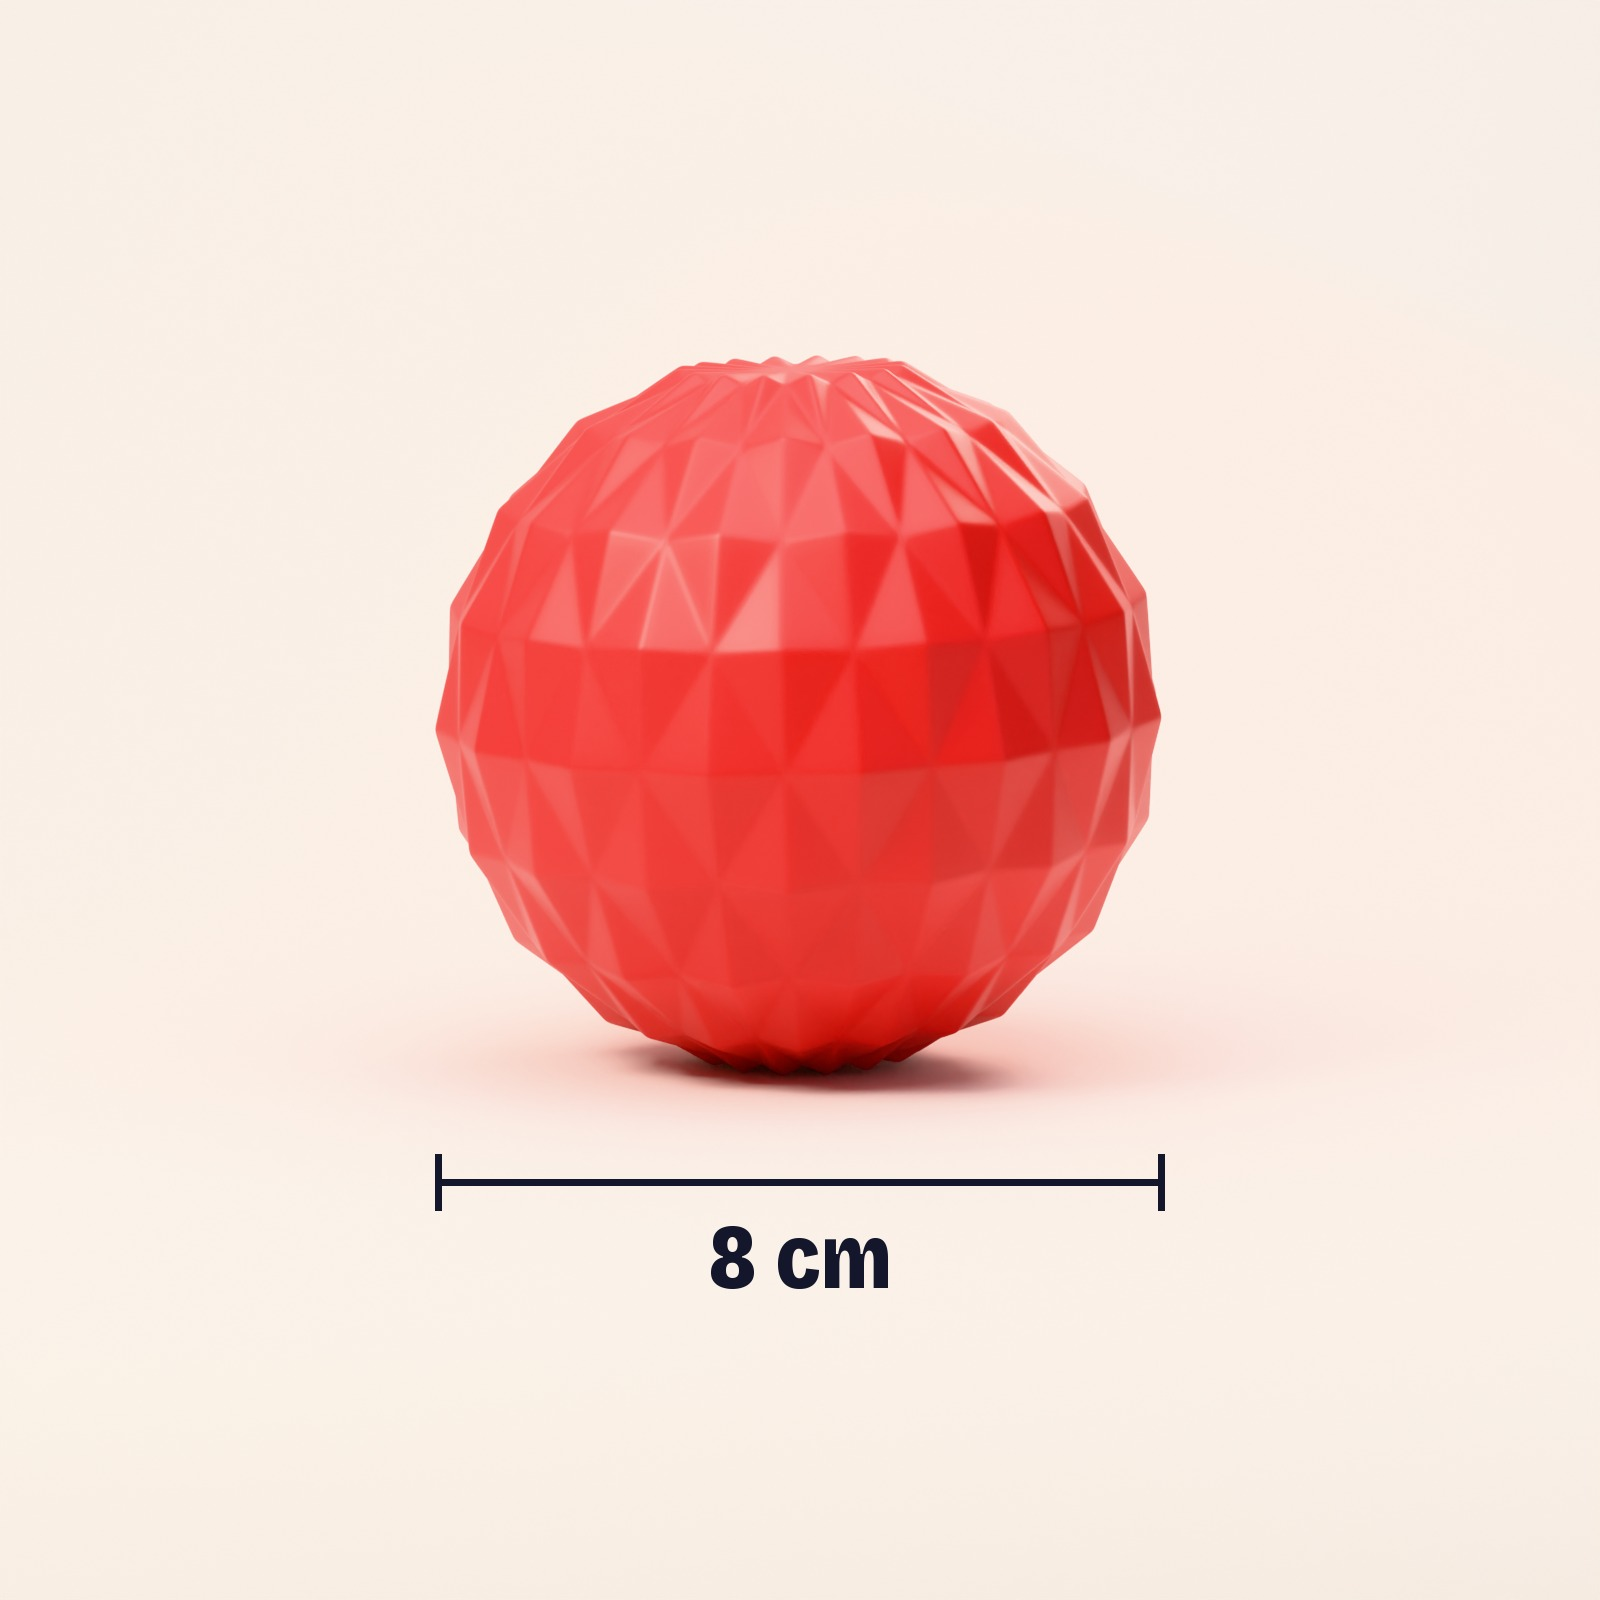
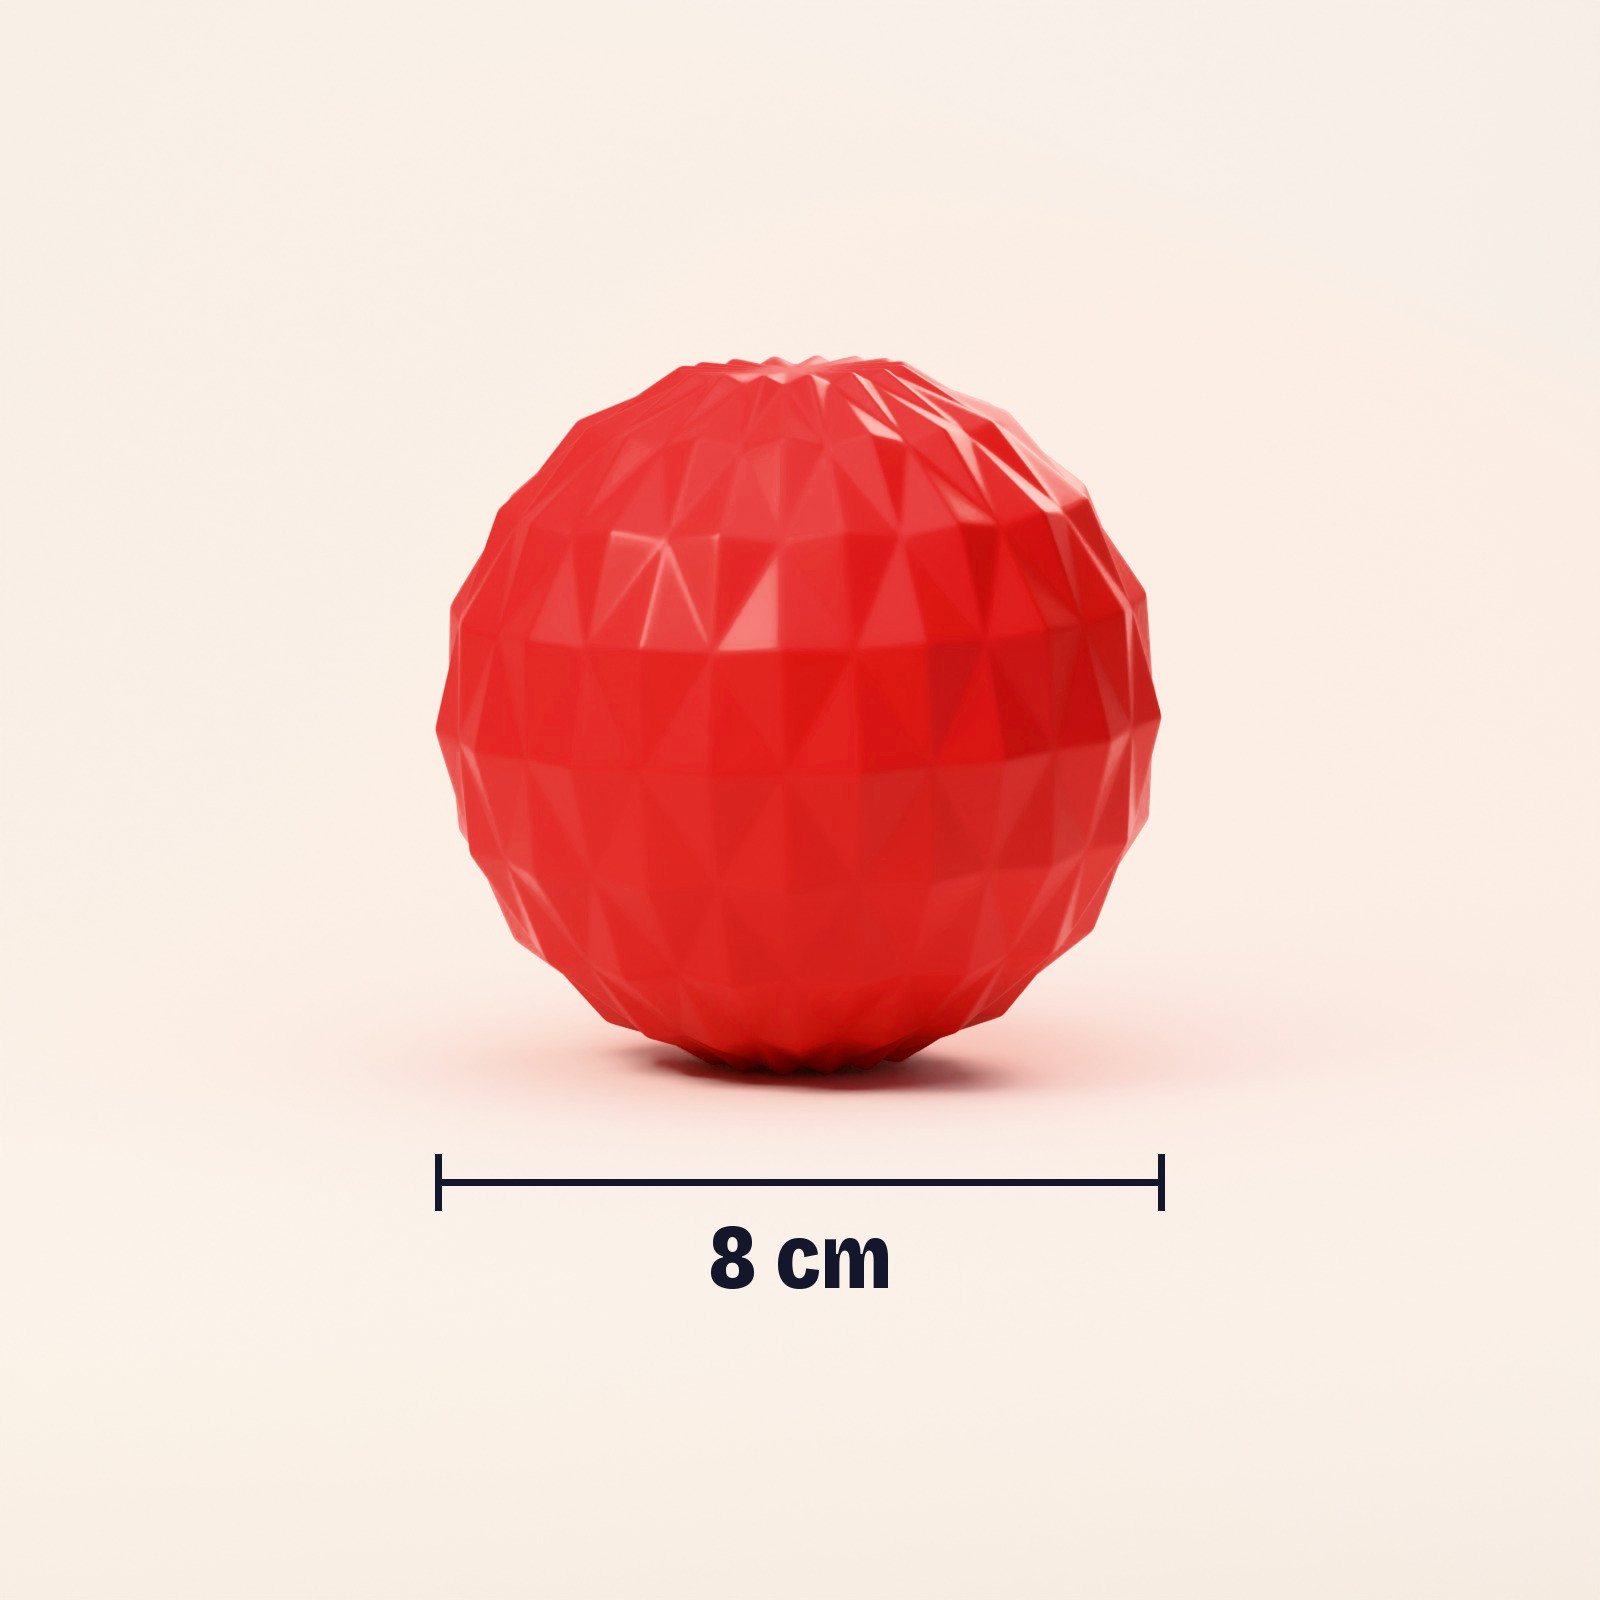
Refonte v9 : corrections médias (photo croquettes sur fond crème, rouge de la balle étalonné)
Claude-Session: https://claude.ai/code/session_01Bm6fKZGHWv2SxfHV2PWU37

Changed region(s): [[0.25, 0.2188, 0.7188, 0.6562]]

diff --git a/shopify-kit/photos/source/ball.py b/shopify-kit/photos/source/ball.py
@@ -1,7 +1,7 @@
 """Rendu photo-réaliste de la balle à friandises (Blender / Cycles).
 
 Usage : python ball.py <scene> <sortie.png> [samples] [taille]
-scene = main (fond clair), kibbles (fond jaune + croquettes), size (fond blanc)
+scene = main (fond clair), kibbles (fond crème + croquettes), size (fond blanc)
 """
 import math
 import random
@@ -26,7 +26,7 @@ def srgb(h):
     return tuple(x / 12.92 if x <= 0.04045 else ((x + 0.055) / 1.055) ** 2.4 for x in c) + (1.0,)
 
 
-BACKDROP = {"main": "#f4ece2", "kibbles": "#f7b733", "size": "#f6f4f1", "spin": "#f4ece2"}[SCENE]
+BACKDROP = {"main": "#f4ece2", "kibbles": "#f4ece2", "size": "#f6f4f1", "spin": "#f4ece2"}[SCENE]
 
 # ------------------------------------------------------------ Balle
 def faceted_ball(rings=9, per_ring=16, raise_=1.034):
